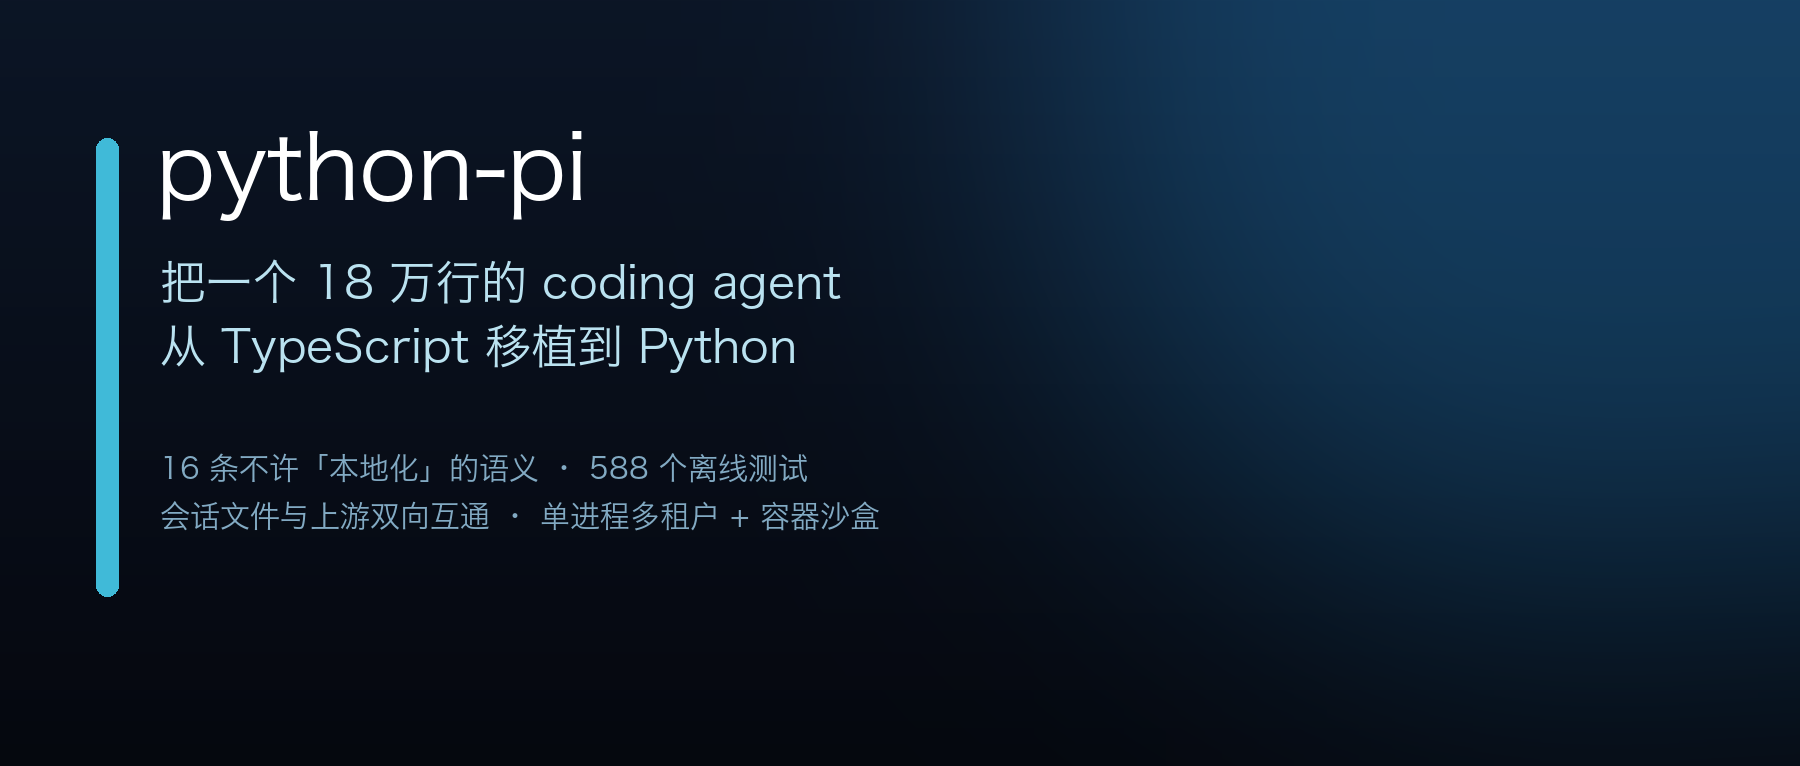
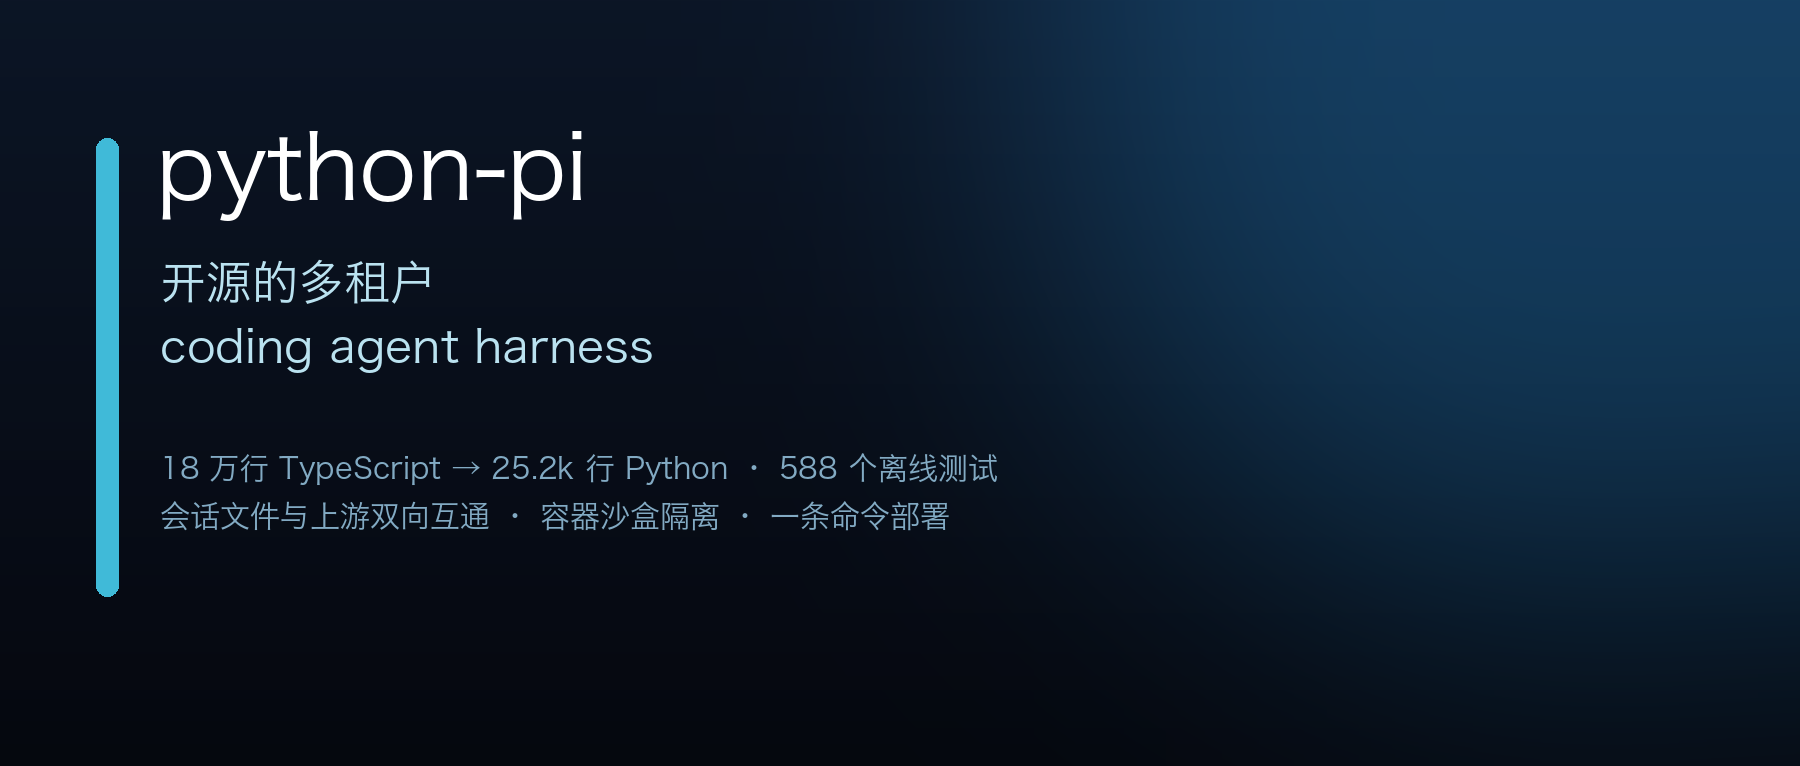
docs(wechat): 标题改为以 python-pi 为主语
原标题《移植一个 coding agent：最危险的动作…》是文章主线，但读者在订阅号列表
里看到的应该是「这是什么项目」，不是「讲了什么道理」。改成
《python-pi：开源的多租户 coding agent harness》。

- 标题 37 字（上限 64）
- 开头 lede 同步改写：先交代 python-pi 是什么，再进移植故事，避免标题与正文
  说的不是一回事
- 封面文案跟着换：主体改为「开源的多租户 / coding agent harness」，
  数据行给出 TypeScript → Python 的规模和测试数

渲染后 18,785 字符（含 4 张图替换后约 19.1k），距 2 万上限余量 875。

diff --git a/docs/wechat-article/make_cover.py b/docs/wechat-article/make_cover.py
@@ -37,10 +37,10 @@ f_tag = ImageFont.truetype(FONT, 30)
 d.rounded_rectangle([96, 138, 118, 596], radius=11, fill=(64, 186, 216))
 
 d.text((156, 120), "python-pi", font=f_title, fill=(255, 255, 255))
-d.text((160, 258), "把一个 18 万行的 coding agent", font=f_sub, fill=(186, 226, 240))
-d.text((160, 322), "从 TypeScript 移植到 Python", font=f_sub, fill=(186, 226, 240))
-d.text((160, 452), "16 条不许「本地化」的语义 · 588 个离线测试", font=f_tag, fill=(130, 170, 195))
-d.text((160, 500), "会话文件与上游双向互通 · 单进程多租户 + 容器沙盒", font=f_tag, fill=(130, 170, 195))
+d.text((160, 258), "开源的多租户", font=f_sub, fill=(186, 226, 240))
+d.text((160, 322), "coding agent harness", font=f_sub, fill=(186, 226, 240))
+d.text((160, 452), "18 万行 TypeScript → 25.2k 行 Python · 588 个离线测试", font=f_tag, fill=(130, 170, 195))
+d.text((160, 500), "会话文件与上游双向互通 · 容器沙盒隔离 · 一条命令部署", font=f_tag, fill=(130, 170, 195))
 
 img.save(OUT)
 print("saved", OUT)

diff --git a/docs/wechat-article/article.md b/docs/wechat-article/article.md
@@ -1,6 +1,6 @@
-# 移植一个 coding agent：最危险的动作，是顺手把它改成 Python 的样子
+# python-pi：开源的多租户 coding agent harness
 
-> 上游 pi 是 11 个 npm 包、约 18 万行 TypeScript 的终端 coding agent。我们把它移植成了 Python——最后落地 25.2k 行、588 个测试全部离线可跑。这篇文章不讲"移植有多难"，讲的是**移植过程中我给自己划的一条线：能逐字对齐的地方，就不要"改进"**，以及这条线踩出来的 16 个坑。
+> python-pi 是一个开源的多租户 coding agent harness。它的上游 pi 是 11 个 npm 包、约 18 万行 TypeScript，我们把它移植成 Python（25.2k 行），再加了一套浏览器 UI 和团队多租户部署，588 个测试全部离线可跑。这篇文章讲的是移植过程中我给自己划的一条线：**能逐字对齐的地方，就不要"改进"**，以及这条线踩出来的 16 个坑。
 
 先给结论：**这次移植里最贵的产出不是代码，是一份「不许改」的清单。**
 
